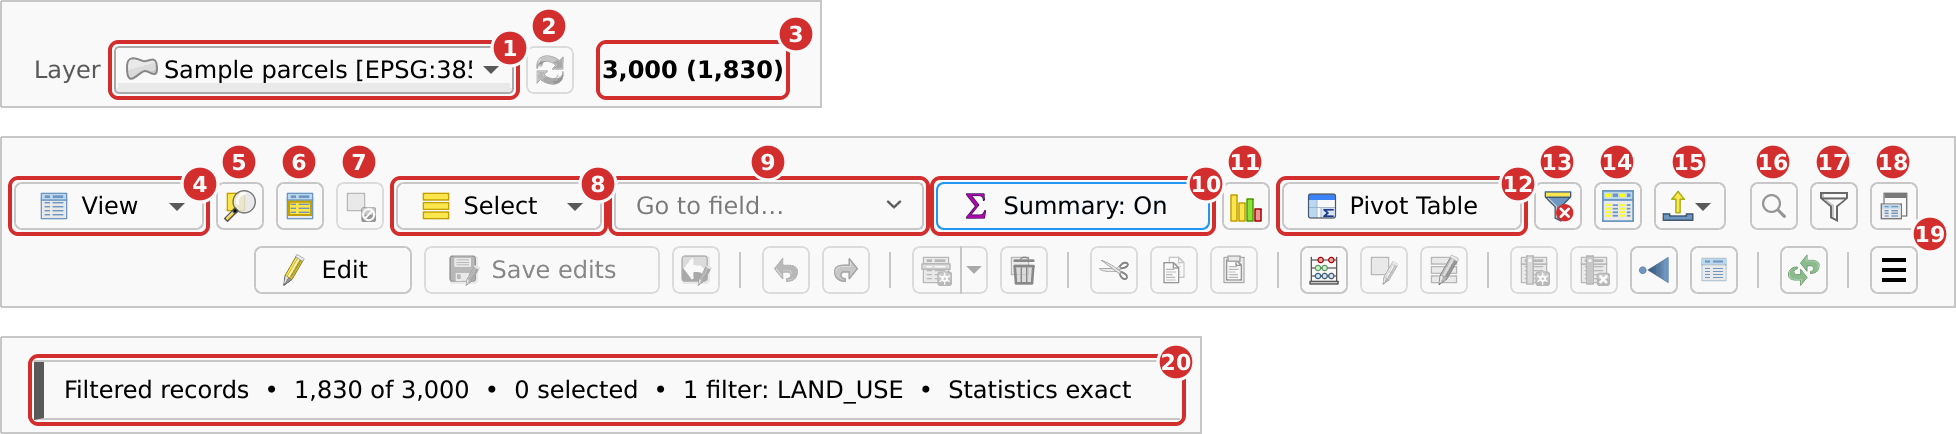
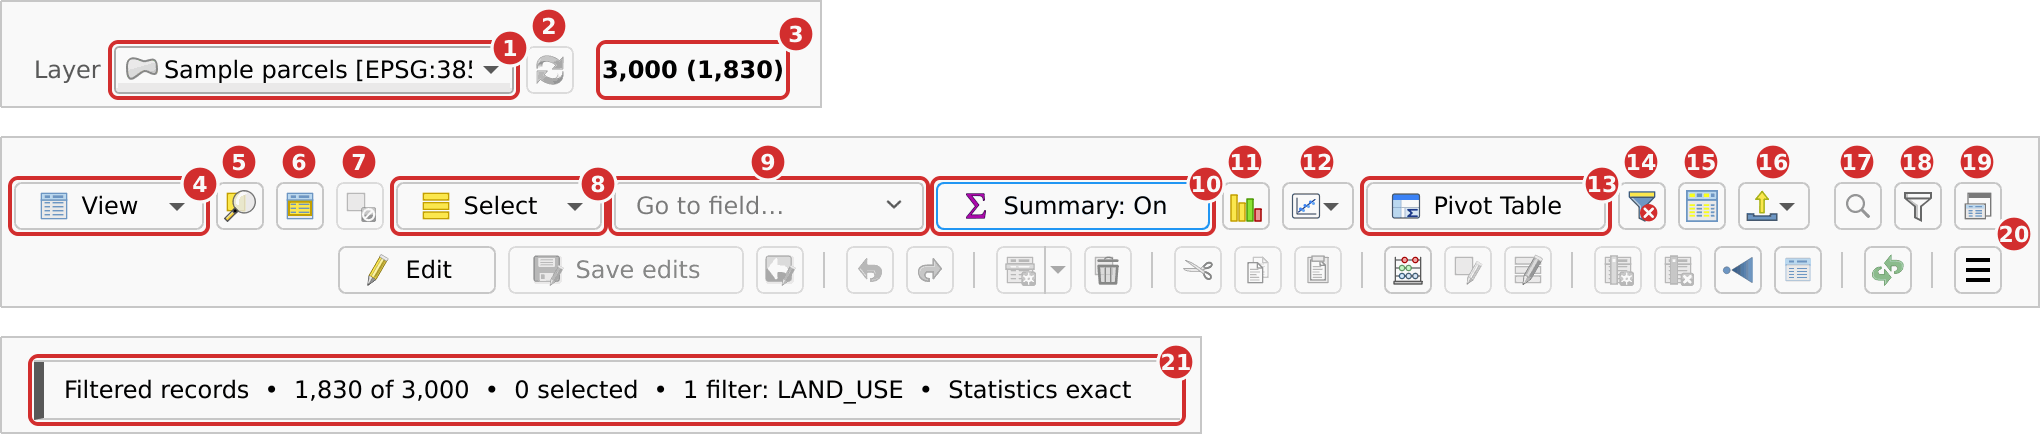
Attribute Explorer: a Data Plot button between Visualize Statistics and Pivot Table
Its menu lists the plot types, as ArcGIS Pro's Create Chart list; picking
one opens Data Plot on the layer with the Explorer's filtered records and a
new plot of that type (Open Data Plot shows the layer's plots). The button
is an icon with a menu, like Export, so the top row keeps its labels.
Data Plot's New plot lists all 12 types; those of later rounds are greyed
out until they are built. The Explorer's Help picture shows the button.

Claude-Session: https://claude.ai/code/session_01Dz8GridfoCRSDNA4bXQhTf

diff --git a/ui/attribute_explorer.py b/ui/attribute_explorer.py
@@ -118,6 +118,7 @@ class ExplorerPanel(EditingMixin, BrowseMixin, QWidget):
     """Attribute Explorer for one layer."""
 
     openPivotRequested = pyqtSignal(object, object)     # layer, scope dict
+    openPlotRequested = pyqtSignal(object, str)         # layer, plot type ("" to open)
     layerChangeRequested = pyqtSignal(object, object)   # panel, new layer
     scopeChanged = pyqtSignal()
     titleChanged = pyqtSignal()
@@ -222,7 +223,8 @@ class ExplorerPanel(EditingMixin, BrowseMixin, QWidget):
         top.addSpacing(m.group_gap)
 
         # right aligned: View | Zoom | Selected only | Deselect | Select |
-        # Go to field | Summary | Pivot Table | Clear filters | Columns |
+        # Go to field | Summary | Visualize Statistics | Data Plot | Pivot Table |
+        # Clear filters | Columns |
         # Export, then query and dock
         row = W.ButtonRow(m)
         row.add_stretch()
@@ -248,6 +250,15 @@ class ExplorerPanel(EditingMixin, BrowseMixin, QWidget):
         self.chart_btn = row.add(W.square_button(
             m, icons.native(icons.CHART), "Visualize Statistics\nA full chart of the "
             "selected column (or of the column of the current cell)"))
+        from .plot_view import fill_type_menu
+        plot_menu = fill_type_menu(QMenu(self), self._open_plot)
+        plot_menu.addSeparator()
+        plot_menu.addAction(icons.tool(icons.PLOT), "Open Data Plot").triggered.connect(
+            lambda: self._open_plot(""))
+        self.plot_btn = row.add(W.menu_square(
+            m, icons.tool(icons.PLOT),
+            "Data Plot\nPlot the filtered records: choose a plot type (it opens in "
+            "Data Plot with the records of this table)", plot_menu))
         self.pivot_btn = row.add(W.button(
             m, "Pivot Table", icons.tool(icons.PIVOT),
             "Summarise the filtered records in a Pivot Table"))
@@ -2155,6 +2166,12 @@ class ExplorerPanel(EditingMixin, BrowseMixin, QWidget):
         if self.layer is None or not self._has_result:
             return
         self.openPivotRequested.emit(self.layer, self.current_scope())
+
+    def _open_plot(self, ptype):
+        """Data Plot on this layer, with the records of this table (and a
+        new plot of *ptype*, unless it is "")."""
+        if self.layer is not None:
+            self.openPlotRequested.emit(self.layer, ptype)
 
     def _wire_table(self, view):
         """The table's (and the frozen strip's) clicks and keys."""

diff --git a/plugin.py b/plugin.py
@@ -303,6 +303,9 @@ class AttributeTableStudioPlugin:
         host = ToolHost(self.iface, panel, "explorer", icons.tool(icons.EXPLORER),
                         QSize(1600, 820))
         panel.openPivotRequested.connect(self.open_pivot)
+        panel.openPlotRequested.connect(
+            lambda lyr, ptype: self.open_data_plot(lyr, scope="explorer",
+                                                   new_type=ptype or None))
         panel.layerChangeRequested.connect(self._switch_explorer_layer)
         panel.titleChanged.connect(host.refresh_title)
         host.closed.connect(self._on_explorer_closed)
@@ -377,15 +380,19 @@ class AttributeTableStudioPlugin:
     # DATA PLOT
     # ====================================================================
 
-    def open_data_plot(self, layer=None, plot_id=None, new_window=False):
+    def open_data_plot(self, layer=None, plot_id=None, new_window=False, scope=None,
+                       new_type=None):
         """Show Data Plot (the main window, or another one with
-        *new_window*) on *layer* (the active layer by default)."""
+        *new_window*) on *layer* (the active layer by default); *scope*
+        picks its records ("explorer": an Attribute Explorer's filtered
+        records) and *new_type* makes a new plot of that type."""
         if self.plot_hosts and not new_window:
             host = self.plot_hosts[0]
             host.show_and_raise()
             panel = host.panel
             if layer is not None and (layer is not panel.layer or plot_id):
                 panel.set_layer(layer, plot_id)
+            self._plot_request(panel, scope, new_type)
             return panel
         from .ui.data_plot import DataPlotPanel
         from .ui.tool_host import ToolHost
@@ -403,8 +410,18 @@ class AttributeTableStudioPlugin:
             layer = active if isinstance(active, QgsVectorLayer) else None
         if layer is not None:
             panel.set_layer(layer, plot_id)
+        self._plot_request(panel, scope, new_type)
         host.refresh_title()
         return panel
+
+    @staticmethod
+    def _plot_request(panel, scope, new_type):
+        if panel.layer is None:
+            return
+        if scope:
+            panel.set_scope(scope)
+        if new_type:
+            panel.new_plot(new_type)
 
     def _on_plot_closed(self, host):
         if host in self.plot_hosts:

diff --git a/tests/qgis/test_data_plot_qgis.py b/tests/qgis/test_data_plot_qgis.py
@@ -108,7 +108,9 @@ class DataPlotTests(unittest.TestCase):
         self.assertEqual(panel.plot_list.count(), 1)
         self.assertEqual([t for t, _l in P.TYPES if t in P.BUILT],
                          ["bar", "line", "scatter"])
-        self.assertEqual(len(panel.new_menu.actions()), len(P.BUILT))
+        acts = panel.new_menu.actions()                 # all 12 types, as ArcGIS Pro lists them
+        self.assertEqual(len(acts), len(P.TYPES))
+        self.assertEqual(sum(a.isEnabled() for a in acts), len(P.BUILT))
 
     def test_02_scatter_numbers_trend_and_colours(self):
         panel = self.panel()
@@ -444,6 +446,29 @@ class DataPlotTests(unittest.TestCase):
         QgsProject.instance().removeMapLayer(other.id())
         H.settle(0.3)
         self.assertIsNone(panel.layer)
+
+    def test_11_from_attribute_explorer(self):
+        # the Data Plot button of Attribute Explorer's top bar, between
+        # Visualize Statistics and Pivot Table: its menu lists the plot types
+        exp = self.plugin.open_explorer(self.layer)
+        self.assertTrue(H.wait_for(lambda: exp._has_result and not exp.runner.busy))
+        items = [a for a in exp.plot_btn.menu().actions() if not a.isSeparator()]
+        self.assertEqual([a.text().split("  (")[0] for a in items[:len(P.TYPES)]],
+                         [label for _k, label in P.TYPES])
+        self.assertEqual([a.isEnabled() for a in items[:len(P.TYPES)]],
+                         [k in P.BUILT for k, _l in P.TYPES])
+        self.assertEqual(items[-1].text(), "Open Data Plot")
+        before = len(DP.PlotStore.instance().plots(self.layer.id()))
+        line = next(a for a in items if a.text() == "Line Chart")
+        line.trigger()
+        H.settle(0.3)
+        panel = self.plugin.plot_hosts[0].panel
+        self.assertIs(panel.layer, self.layer)
+        self.assertEqual(panel.scope, "explorer")
+        self.assertEqual(panel.current_plot()["type"], "line")
+        self.assertEqual(len(panel.store.plots(self.layer.id())), before + 1)
+        self.plugin.explorers[self.layer.id()].close()
+        H.settle(0.3)
 
 
 if __name__ == "__main__":

diff --git a/tests/qgis/test_suite_qgis.py b/tests/qgis/test_suite_qgis.py
@@ -2698,17 +2698,20 @@ class SuiteTests(unittest.TestCase):
         def x(widget):
             return widget.mapTo(panel, QPoint(0, 0)).x()
         # top row, right aligned: View | Zoom | Selected only | Deselect |
-        # Select | Go to field | Summary | Pivot Table | Clear filters |
-        # Columns | Export | query | dock
+        # Select | Go to field | Summary | Visualize Statistics | Data Plot |
+        # Pivot Table | Clear filters | Columns | Export | query | dock
         order = [panel.view_btn, panel.zoom_btn, panel.selected_btn, panel.deselect_btn,
-                 panel.select_btn, panel.field_box, panel.summary_btn, panel.pivot_btn,
+                 panel.select_btn, panel.field_box, panel.summary_btn, panel.chart_btn,
+                 panel.plot_btn, panel.pivot_btn,
                  panel.clear_btn, panel.columns_btn, panel.export_btn, btn, panel.dock_btn]
         xs = [x(w) for w in order]
         self.assertEqual(xs, sorted(xs))
         for icon_only in (panel.zoom_btn, panel.selected_btn, panel.deselect_btn,
-                          panel.clear_btn, panel.columns_btn, panel.export_btn):
+                          panel.chart_btn, panel.plot_btn, panel.clear_btn,
+                          panel.columns_btn, panel.export_btn):
             self.assertEqual(icon_only.text().strip(), "")
         self.assertEqual(panel.pivot_btn.text().strip(), "Pivot Table")
+        self.assertTrue(panel.plot_btn.toolTip().startswith("Data Plot"))
         self.assertEqual([a.text() for a in panel.export_btn.menu().actions()
                           if not a.isSeparator()],
                          ["Excel (.xlsx)…", "CSV (.csv)…", "Copy Selected Rows"])

diff --git a/ui/data_plot.py b/ui/data_plot.py
@@ -46,7 +46,7 @@ from ..core.jobs import JobRunner
 from ..core.scan import ScanSpec
 from . import icons
 from . import widgets as W
-from .plot_view import PlotModel, PlotView, series_colour, value_text
+from .plot_view import PlotModel, PlotView, fill_type_menu, series_colour, value_text
 from .theme import Metrics, Theme, stylesheet
 
 LOG_TAG = "Attribute Table Studio"
@@ -1112,11 +1112,7 @@ class DataPlotPanel(QWidget):
         self.plot_list.setContextMenuPolicy(Qt.ContextMenuPolicy.CustomContextMenu)
         self.plot_list.customContextMenuRequested.connect(self._list_menu)
         lay.addWidget(self.plot_list, 1)
-        self.new_menu = QMenu(self)
-        for key, text in P.TYPES:
-            if key in P.BUILT:
-                act = self.new_menu.addAction(icons.plot_type(key), text)
-                act.triggered.connect(lambda _c=False, k=key: self.new_plot(k))
+        self.new_menu = fill_type_menu(QMenu(self), self.new_plot)
         self.new_btn = W.button(m, "New plot", icons.native(icons.ADD),
                                 "Make a new plot of this layer", menu=self.new_menu)
         new_row = QHBoxLayout()

diff --git a/ui/plot_view.py b/ui/plot_view.py
@@ -42,6 +42,22 @@ PICK_RADIUS = 6                  # px around the mouse that picks a point
 TREND_COLOUR = {False: "#37474F", True: "#ECEFF1"}
 
 
+def fill_type_menu(menu, slot):
+    """The plot types, each with its icon, in the order of ArcGIS Pro's
+    Create Chart list (Data Plot's New plot and Attribute Explorer's Data
+    Plot button); *slot* takes the type.  Types not built yet are listed
+    greyed out."""
+    from . import icons
+    for key, text in P.TYPES:
+        act = menu.addAction(icons.plot_type(key), text)
+        if key in P.BUILT:
+            act.triggered.connect(lambda _c=False, k=key: slot(k))
+        else:
+            act.setText(f"{text}  (coming in round {P.COMING.get(key, '')})")
+            act.setEnabled(False)
+    return menu
+
+
 def series_colour(theme, s, name=None, n=0, override=None):
     """Colour of series *s*: the user's, else the colour-blind checked
     series colours; Other in grey."""

diff --git a/ui/help_pages.py b/ui/help_pages.py
@@ -83,6 +83,9 @@ EXPLORER = [
             I("chart_btn", "Visualize Statistics",
               "A full chart of the selected column (histogram or bar chart) for the "
               "records in the table. It has its own Help.", icons.CHART),
+            I("plot_btn", "Data Plot",
+              "Plot the records in the table: choose a plot type and it opens in Data "
+              "Plot with these records. Data Plot has its own Help.", icons.PLOT),
             I("pivot_btn", "Pivot Table",
               "Summarise the records in the table in a Pivot Table.", icons.PIVOT),
             I("clear_btn", "Clear filters",

diff --git a/core/plots.py b/core/plots.py
@@ -57,6 +57,9 @@ TYPES = (
 )
 TYPE_LABELS = dict(TYPES)
 BUILT = ("bar", "line", "scatter")
+# the round of dev-v5 that builds each type not built yet (shown in the menu)
+COMING = {"combo": 2, "pie": 2, "histogram": 2, "box": 2, "matrix": 3, "qq": 3,
+          "heat": 3, "calendar": 3, "clock": 3}
 
 AGGREGATIONS = (("count", "Count"), ("sum", "Sum"), ("mean", "Mean"),
                 ("median", "Median"), ("min", "Minimum"), ("max", "Maximum"))
